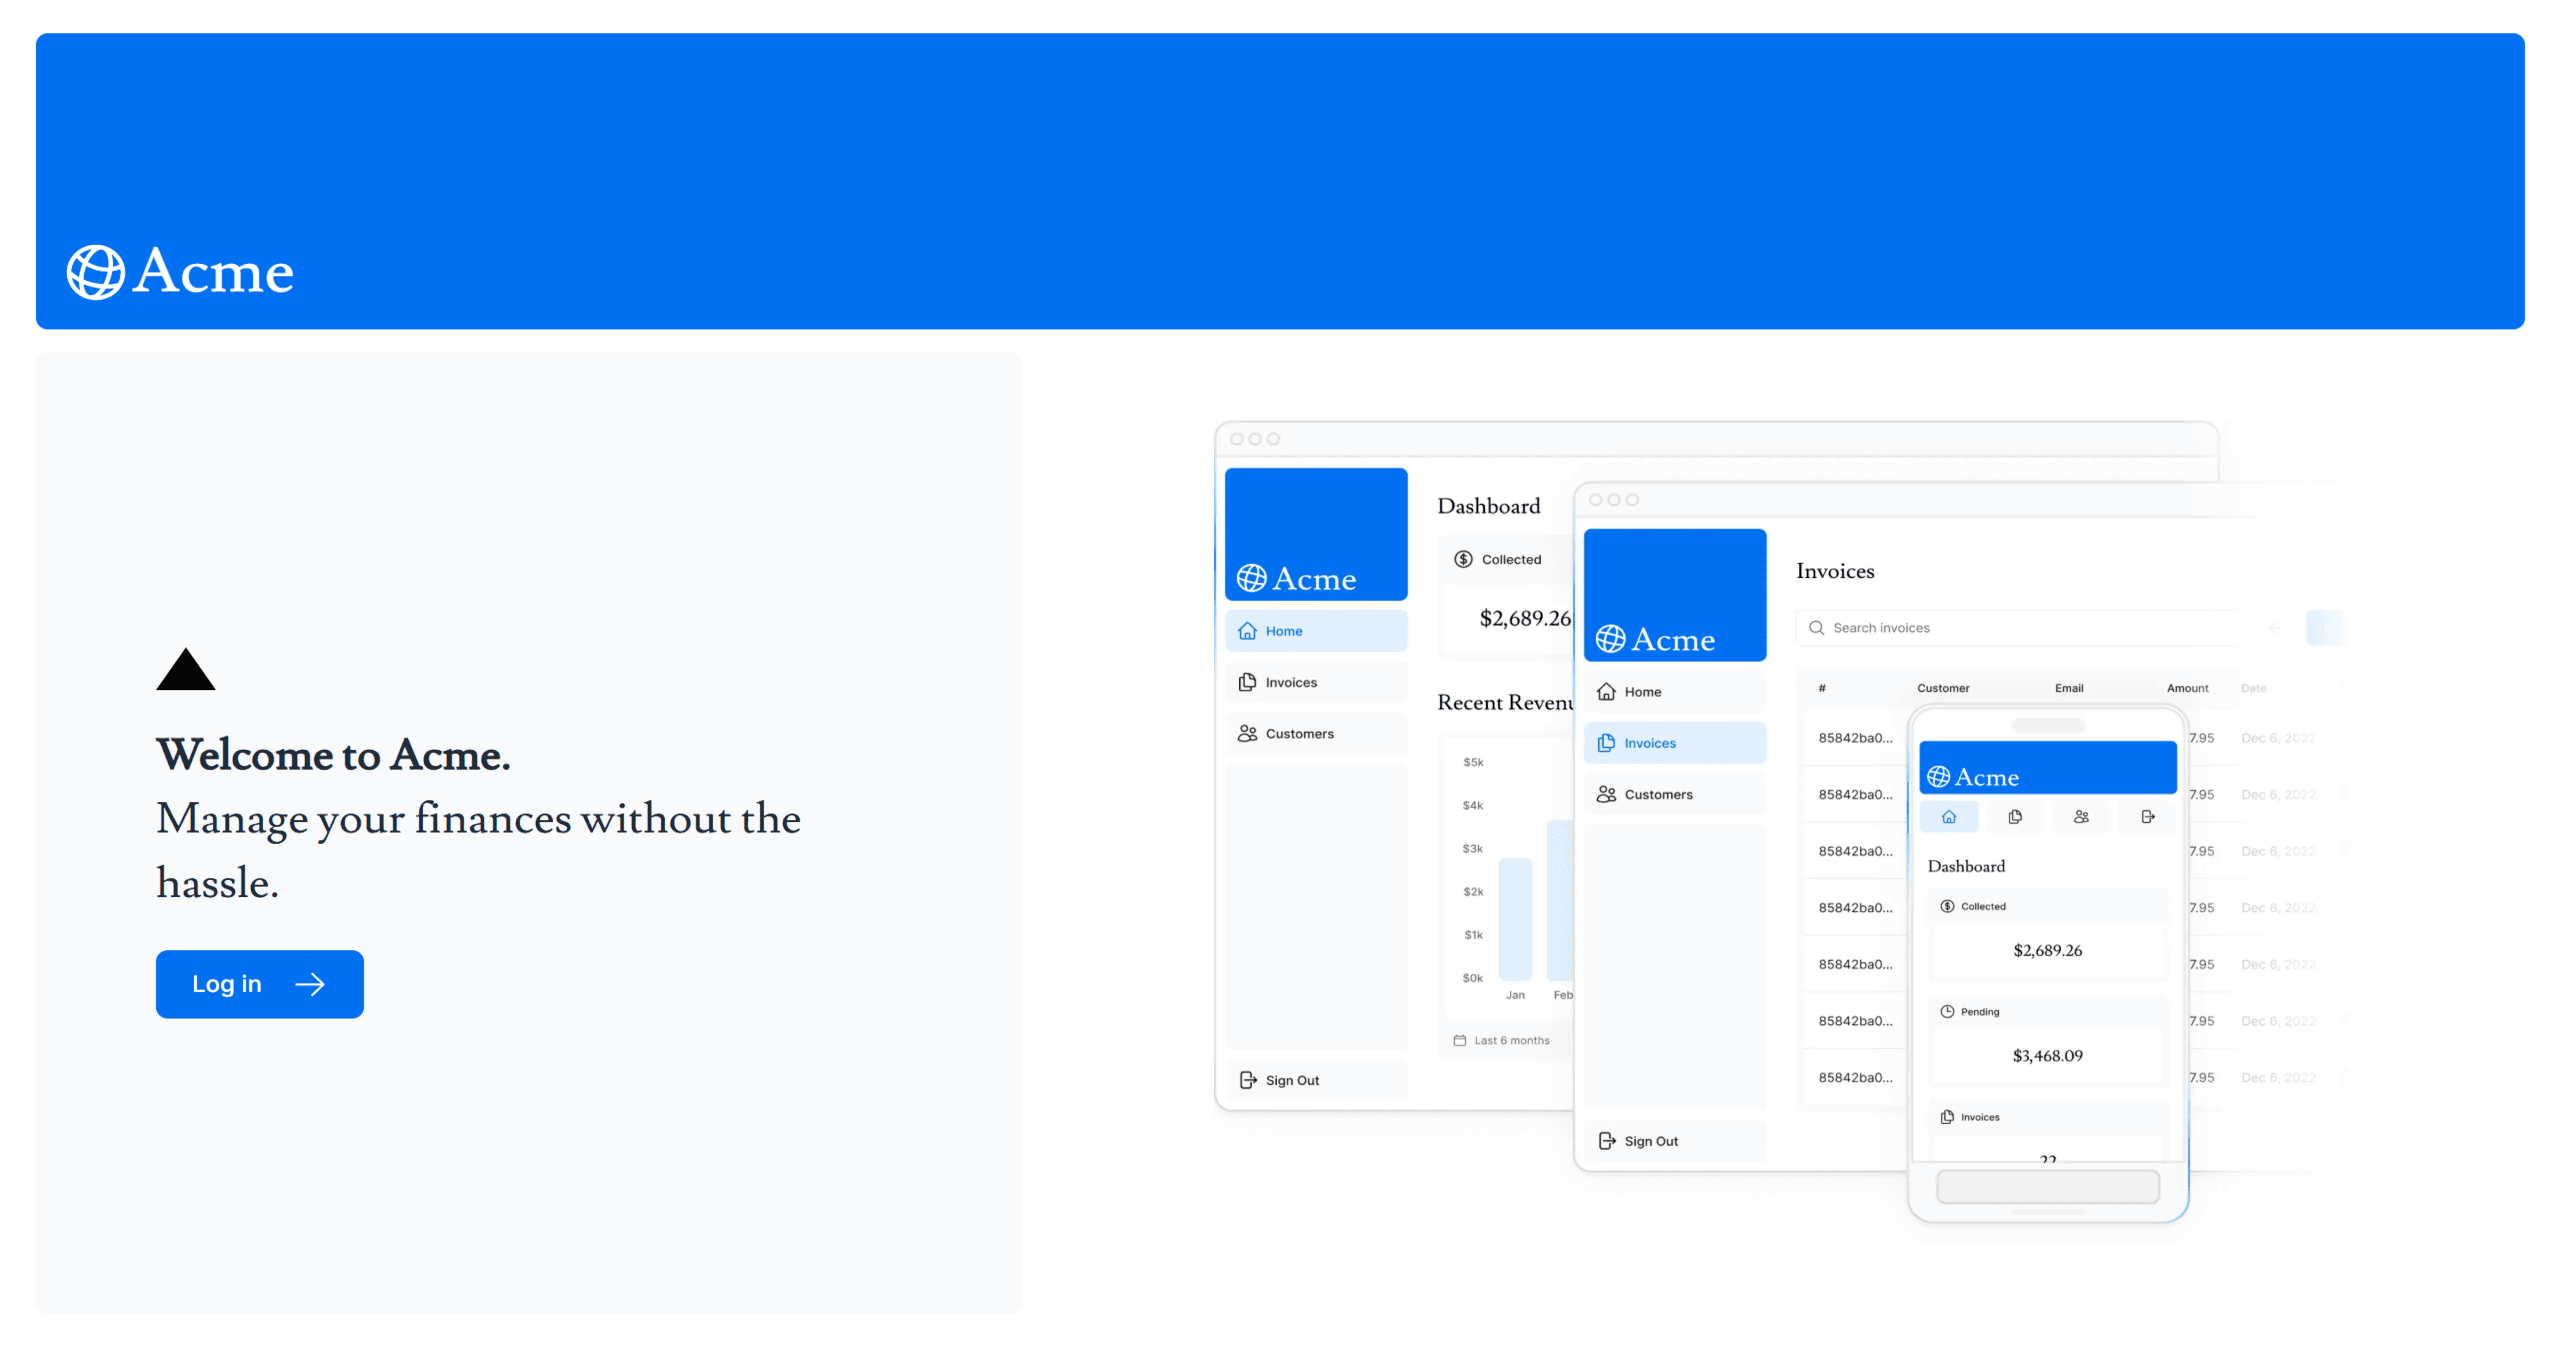
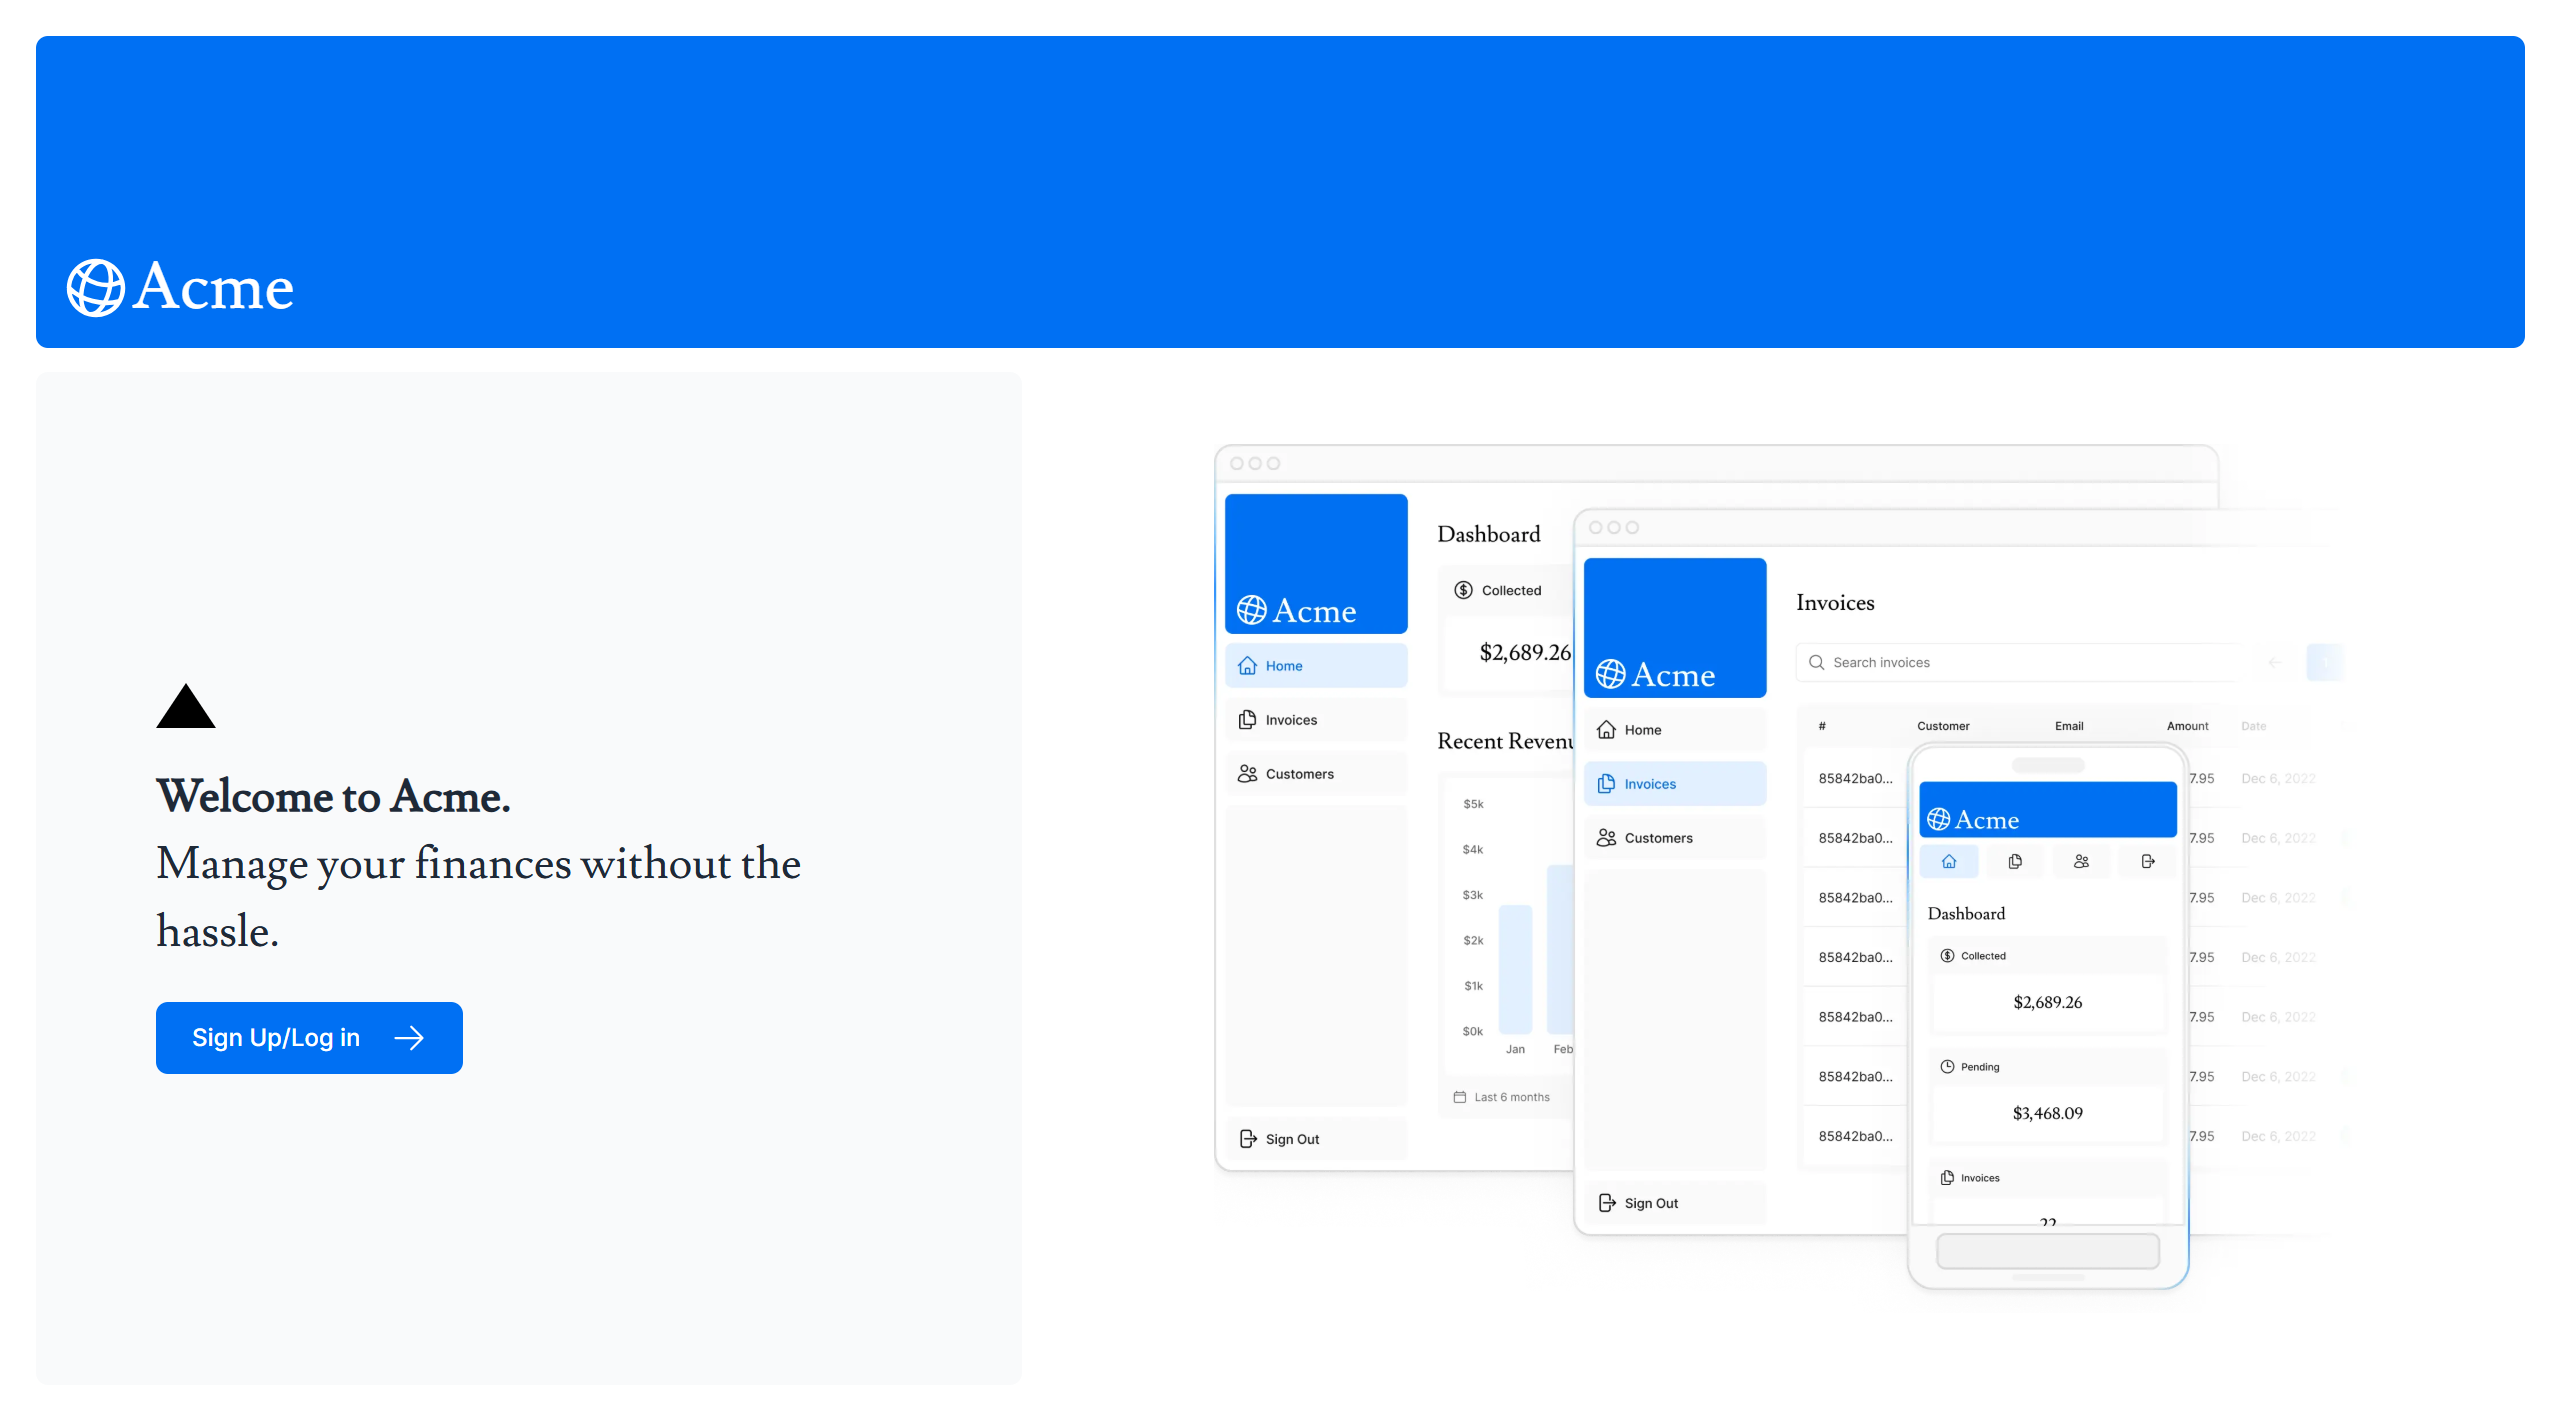
Update nextjs dashboard website images

diff --git a/src/app/nextjsdashboard/nextjsdashboard/nextjsdashboard.component.ts b/src/app/nextjsdashboard/nextjsdashboard/nextjsdashboard.component.ts
@@ -16,6 +16,7 @@ export class NextjsdashboardComponent {
   images = [
     '/images/nextjsdashboard/intro-sample-finance-website-vercel-app.png',
     '/images/nextjsdashboard/login-sample-finance-website-vercel-app.png',
+    '/images/nextjsdashboard/sign-up-sample-finance-website-vercel-app.png',
     '/images/nextjsdashboard/dashboard-sample-finance-website-vercel-app.png',
     '/images/nextjsdashboard/create-invoices-sample-finance-website-vercel-app.png',
     '/images/nextjsdashboard/postgresql-console-neon-tech.png',

diff --git a/src/app/core/components/header/header.component.html b/src/app/core/components/header/header.component.html
@@ -14,9 +14,6 @@
       <a class="navbar-item text-green-400 mx-2" routerLink="/weathernow"
         >WeatherNow</a
       >
-      <a class="navbar-item text-green-400" routerLink="/gtwrapped"
-        >GTWrapped</a
-      >
       <a class="navbar-item text-green-400 mx-2" routerLink="/resume">Resume</a>
     </div>
     <div class="navbar-end">

diff --git a/src/app/nextjsdashboard/nextjsdashboard/nextjsdashboard.component.html b/src/app/nextjsdashboard/nextjsdashboard/nextjsdashboard.component.html
@@ -1,6 +1,6 @@
 <body class="bg-black text-green-400 h-screen">
   <div class="flex items-center justify-center p-3 text-5xl mb-10">
-    <h1>NextJS Dashboard</h1>
+    <h1>NextJS Finance Dashboard</h1>
   </div>
   <div class="ml-10 mr-10">
     <a
